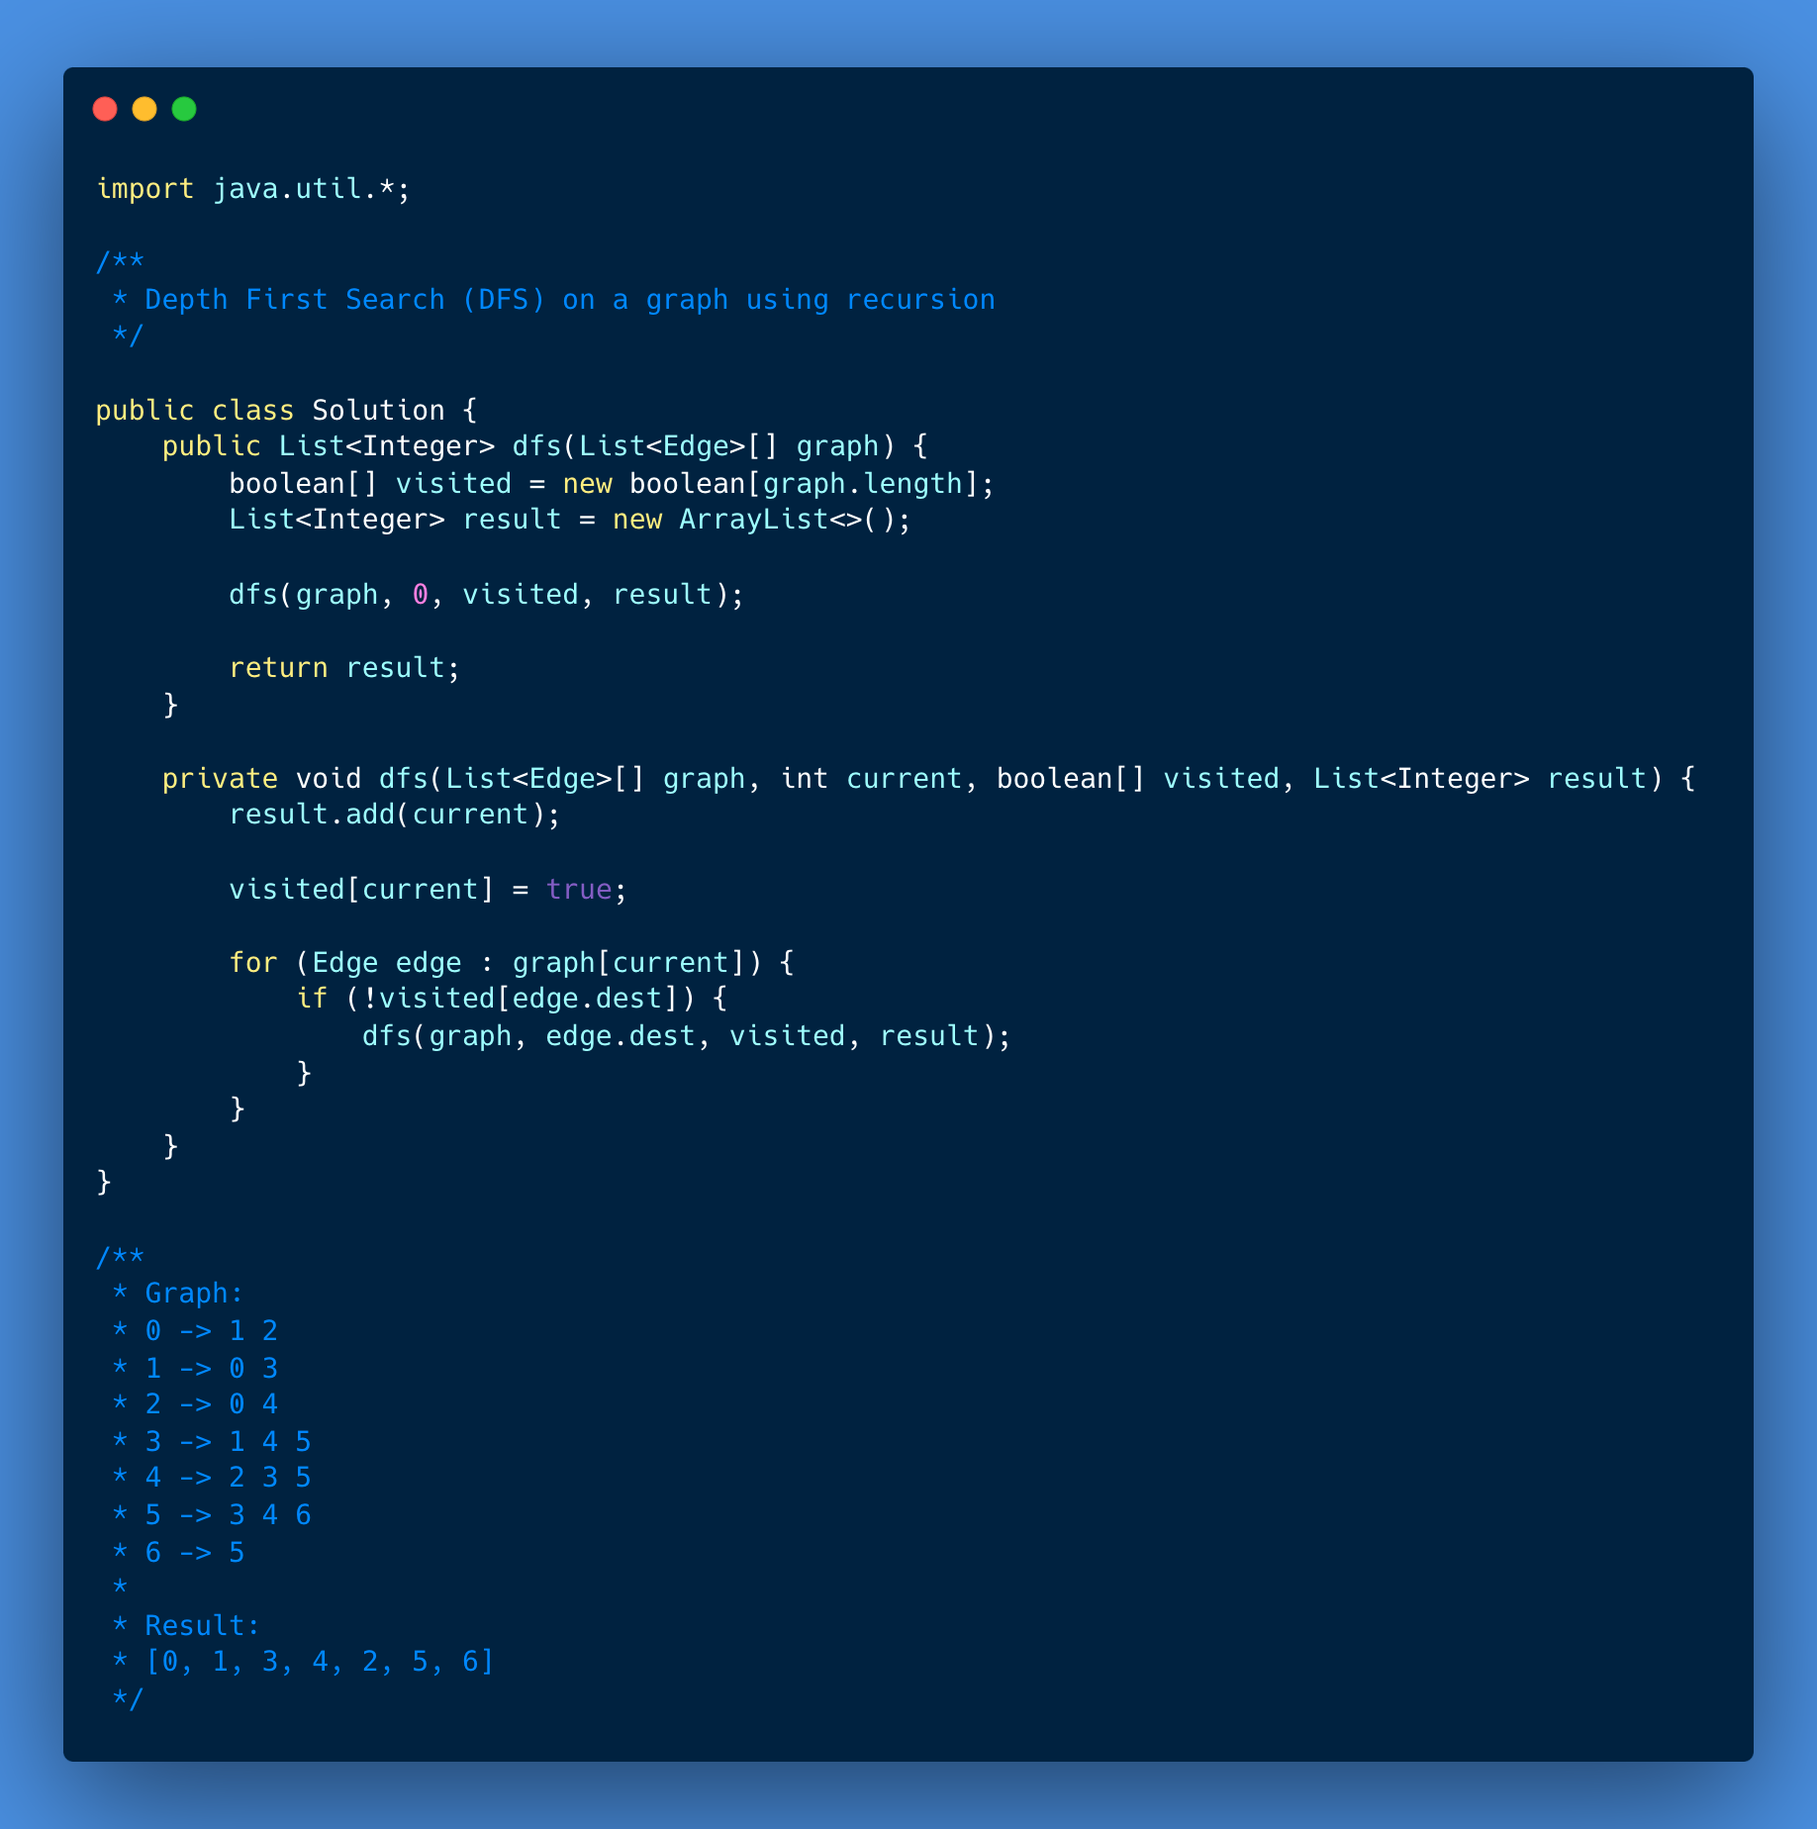
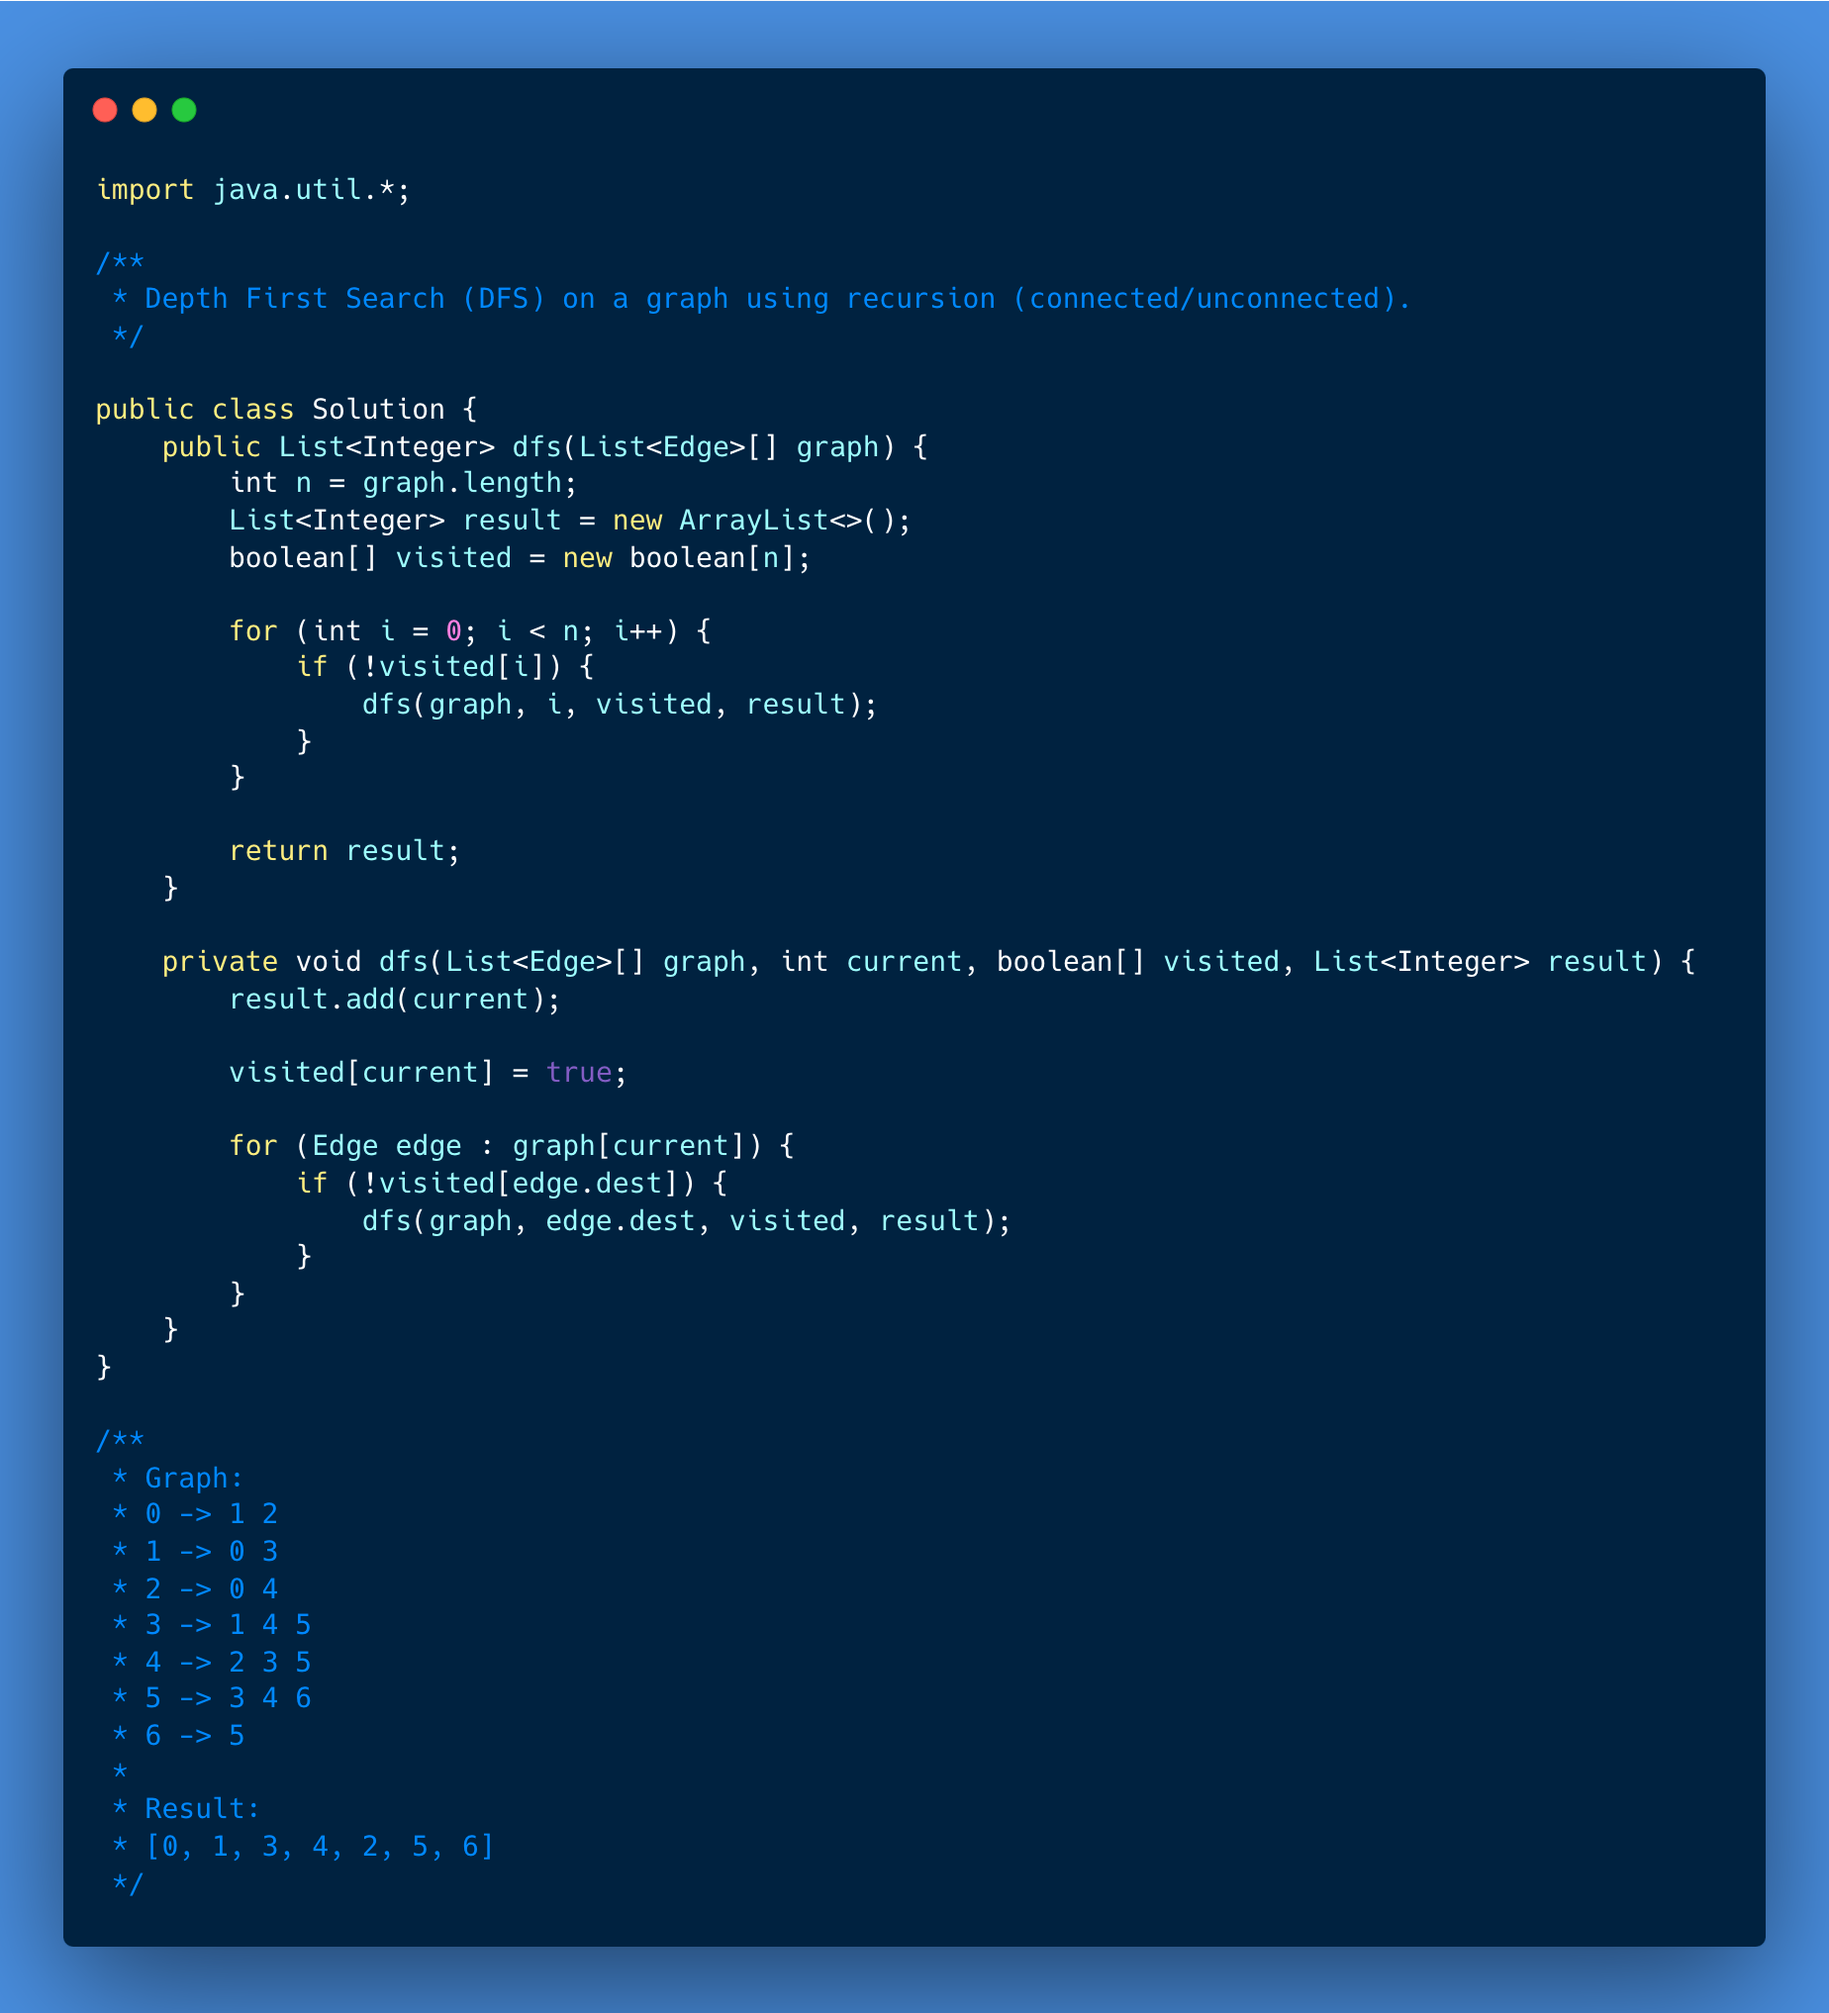
Update BFS & DFS to handle unconnected case also

diff --git a/232-dfs-graph/002-solution/Solution.java b/232-dfs-graph/002-solution/Solution.java
@@ -1,29 +1,33 @@
 import java.util.*;
 
 /**
- * Depth First Search (DFS) on a graph using stack
+ * Depth First Search (DFS) on a graph using stack (connected/unconnected).
  */
 
 public class Solution {
     public List<Integer> dfs(List<Edge>[] graph) {
+        int n = graph.length;
         List<Integer> result = new ArrayList<>();
-        boolean[] visited = new boolean[graph.length];
+        boolean[] visited = new boolean[n];
         Stack<Integer> stack = new Stack<>();
-        int current = 0;
 
-        stack.push(current);
+        for (int i = 0; i < n; i++) {
+            if (!visited[i]) {
+                stack.push(i);
 
-        while (!stack.isEmpty()) {
-            current = stack.pop();
+                while (!stack.isEmpty()) {
+                    int current = stack.pop();
 
-            if (!visited[current]) {
-                result.add(current);
-                visited[current] = true;
-            }
+                    if (!visited[current]) {
+                        result.add(current);
+                        visited[current] = true;
+                    }
 
-            for (Edge edge : graph[current]) {
-                if (!visited[edge.dest]) {
-                    stack.push(edge.dest);
+                    for (Edge edge : graph[current]) {
+                        if (!visited[edge.dest]) {
+                            stack.push(edge.dest);
+                        }
+                    }
                 }
             }
         }

diff --git a/231-bfs-graph/001-solution/Solution.java b/231-bfs-graph/001-solution/Solution.java
@@ -1,14 +1,27 @@
 import java.util.*;
 
 /**
- * Breadth First Search (BFS) on a graph
+ * Breadth First Search (BFS) on a graph (connected/unconnected).
  */
 
 public class Solution {
     public List<Integer> bfs(List<Edge>[] graph) {
+        int n = graph.length;
         List<Integer> result = new ArrayList<>();
+        boolean[] visited = new boolean[n];
+
+        for (int i = 0; i < n; i++) {
+            if (!visited[i]) {
+                bfs(graph, visited, result);
+            }
+        }
+
+        return result;
+    }
+
+    private void bfs(List<Edge>[] graph, boolean[] visited, List<Integer> result) {
         Queue<Integer> q = new LinkedList<>();
-        boolean[] visited = new boolean[graph.length];
+
         q.add(0);
 
         while (!q.isEmpty()) {
@@ -25,8 +38,6 @@ public class Solution {
                 }
             }
         }
-
-        return result;
     }
 }
 

diff --git a/232-dfs-graph/001-solution/Solution.java b/232-dfs-graph/001-solution/Solution.java
@@ -1,15 +1,20 @@
 import java.util.*;
 
 /**
- * Depth First Search (DFS) on a graph using recursion
+ * Depth First Search (DFS) on a graph using recursion (connected/unconnected).
  */
 
 public class Solution {
     public List<Integer> dfs(List<Edge>[] graph) {
-        boolean[] visited = new boolean[graph.length];
+        int n = graph.length;
         List<Integer> result = new ArrayList<>();
+        boolean[] visited = new boolean[n];
 
-        dfs(graph, 0, visited, result);
+        for (int i = 0; i < n; i++) {
+            if (!visited[i]) {
+                dfs(graph, i, visited, result);
+            }
+        }
 
         return result;
     }
